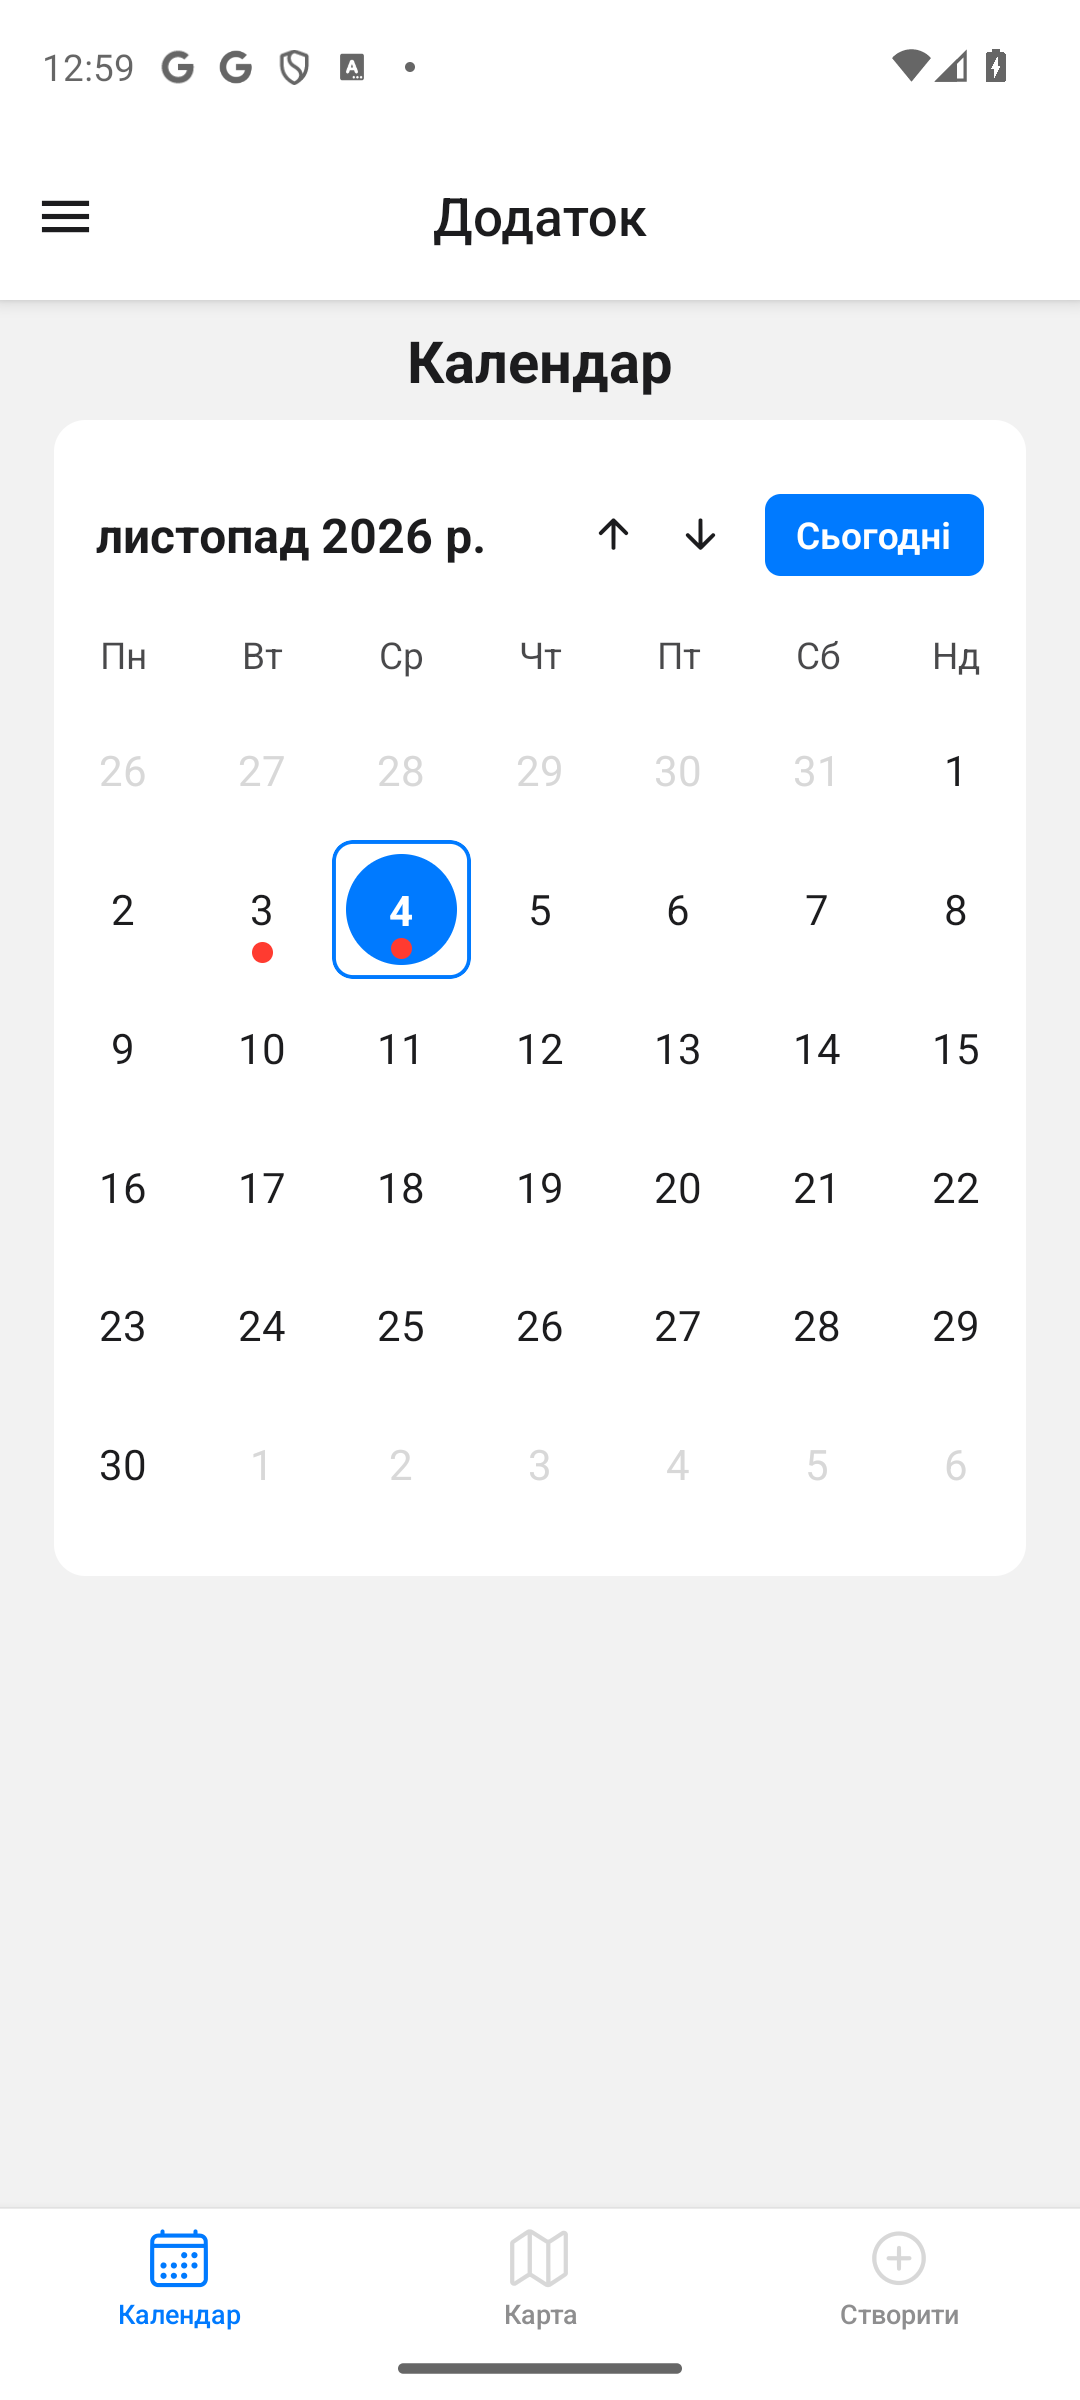
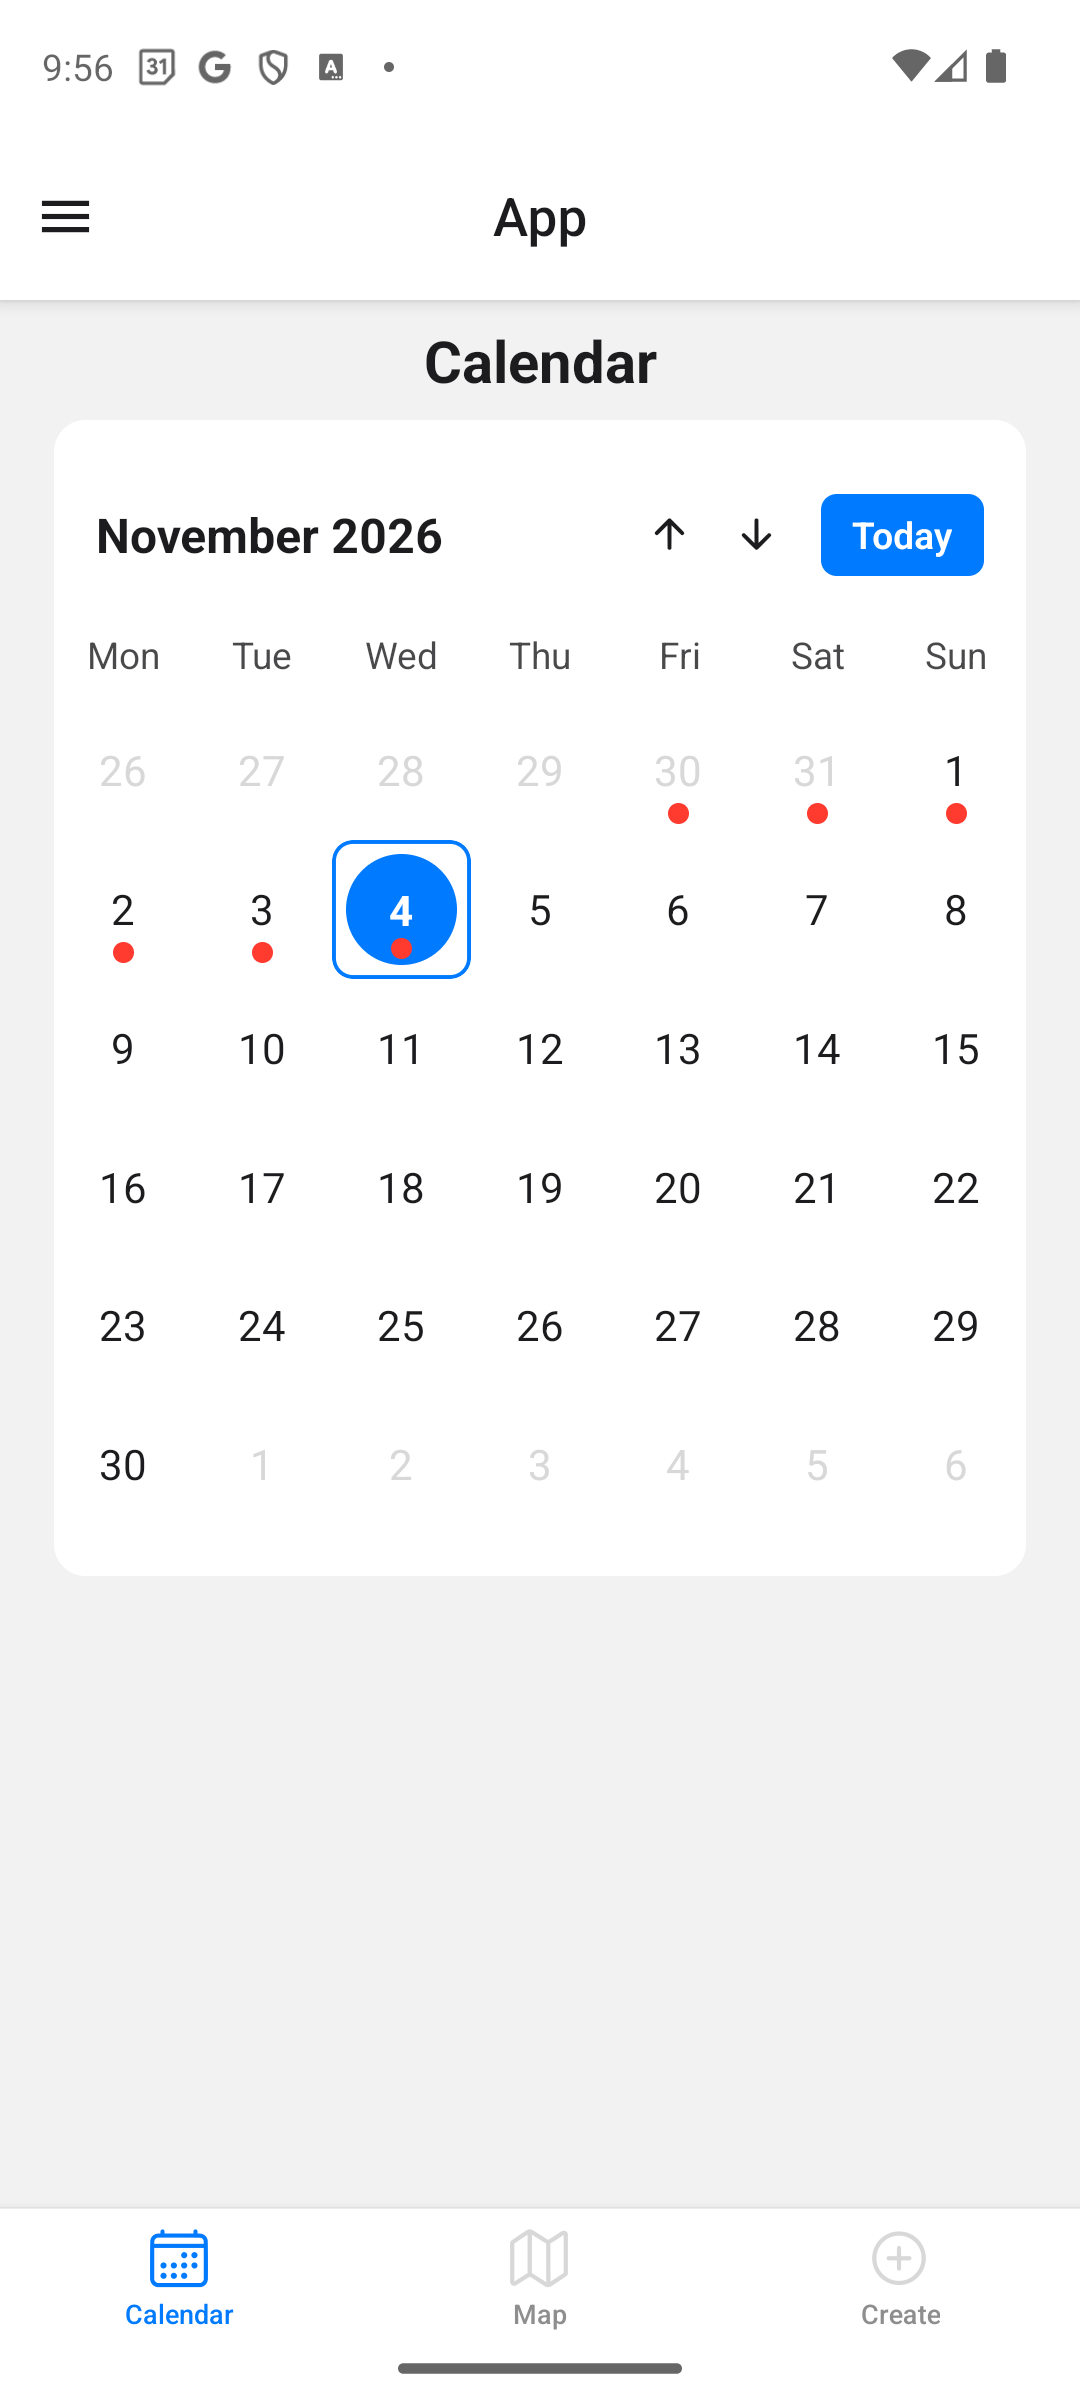
docs: expand English app demo screenshots

diff --git a/frontend/src/screens/MapScreen.js b/frontend/src/screens/MapScreen.js
@@ -1,63 +1,97 @@
 import React, { useRef, useState, useCallback } from 'react';
-import { View, Text, StyleSheet } from 'react-native';
+import { View, Text, StyleSheet, useWindowDimensions } from 'react-native';
 import MapView, { Marker } from 'react-native-maps';
 import { useTheme, useFocusEffect } from '@react-navigation/native';
 import { useTranslation } from 'react-i18next';
 import * as Location from 'expo-location';
 import { listOffensesRemoteAll } from '../repositories/offensesRepo';
+import { DEMO_MODE } from '../config/demo';
 
 /**
  * MapScreen
  *
- * Екран карти, де відображаються всі порушення у вигляді маркерів.
- * Також центрує карту на поточній геолокації користувача.
+ * Shows report markers on a map and centers on the user's location.
  *
  * State:
  * - items: список порушень (з координатами)
  * - region: поточна область карти
  *
  * Поведінка:
- * - при фокусі екрана: завантажує всі порушення та отримує геопозицію користувача
- * - карта переміщується до поточної позиції
+ * - On focus, loads reports and the user's location.
+ * - In demo mode, frames all synthetic report locations.
  */
 export default function MapScreen() {
     const { colors } = useTheme();
     const { t } = useTranslation();
+    const { width, height } = useWindowDimensions();
     const s = makeStyles(colors);
 
     const mapRef = useRef(null);
 
-    // список порушень
+    // Reports displayed on the map.
     const [items, setItems] = useState([]);
     const [region, setRegion] = useState({
-
+        latitude: 48.7164,
+        longitude: 21.2611,
+        latitudeDelta: 0.08,
+        longitudeDelta: 0.08,
     });
 
     useFocusEffect(
         useCallback(() => {
             (async () => {
-                // завантажуємо всі порушення
+                // Load every public report.
                 const rows = await listOffensesRemoteAll();
                 setItems(rows || []);
 
-                // перевірка доступу до геолокації
+                // Frame all synthetic reports in the portfolio demo without requesting device location.
+                if (DEMO_MODE) {
+                    const points = (rows || []).filter((item) => item.latitude != null && item.longitude != null);
+                    if (points.length) {
+                        const latitudes = points.map((item) => Number(item.latitude));
+                        const longitudes = points.map((item) => Number(item.longitude));
+                        const minLatitude = Math.min(...latitudes);
+                        const maxLatitude = Math.max(...latitudes);
+                        const minLongitude = Math.min(...longitudes);
+                        const maxLongitude = Math.max(...longitudes);
+                        const latitude = (minLatitude + maxLatitude) / 2;
+                        const longitude = (minLongitude + maxLongitude) / 2;
+                        const mapAspect = width / Math.max(height - 160, width);
+                        const longitudeScale = Math.cos((latitude * Math.PI) / 180);
+                        const latitudeDelta = Math.max(
+                            (maxLatitude - minLatitude) * 1.35,
+                            ((maxLongitude - minLongitude) * longitudeScale * 1.35) / mapAspect,
+                            0.025
+                        );
+                        const longitudeDelta = Math.max(
+                            (maxLongitude - minLongitude) * 1.35,
+                            (latitudeDelta * mapAspect) / longitudeScale
+                        );
+                        const next = { latitude, longitude, latitudeDelta, longitudeDelta };
+                        setRegion(next);
+                        mapRef.current?.animateToRegion(next, 700);
+                    }
+                    return;
+                }
+
+                // Request foreground location access.
                 const { status } = await Location.requestForegroundPermissionsAsync();
                 if (status !== 'granted') return;
 
-                // визначаємо поточну позицію
+                // Read the current device position.
                 const pos = await Location.getCurrentPositionAsync({
                     accuracy: Location.Accuracy.High,
                 });
                 const p = { latitude: pos.coords.latitude, longitude: pos.coords.longitude };
 
-                // встановлюємо новий регіон карти
+                // Center the map on the current position.
                 const next = { ...p, latitudeDelta: 0.03, longitudeDelta: 0.03 };
                 setRegion(next);
 
-                //переміщення карти
+                // Animate to the new region.
                 mapRef.current?.animateToRegion(next, 700);
             })();
-        }, [])
+        }, [height, width])
     );
 
     return (
@@ -71,7 +105,7 @@ export default function MapScreen() {
                 onRegionChangeComplete={setRegion}
                 showsUserLocation
             >
-                {/* рендеримо маркери лише для тих записів, де є координати */}
+                {/* Only reports with coordinates can be shown as markers. */}
                 {items
                     .filter((x) => x.latitude != null && x.longitude != null)
                     .map((p) => (

diff --git a/backend/src/scripts/seedDemo.ts b/backend/src/scripts/seedDemo.ts
@@ -12,10 +12,18 @@ if (!localHosts.has(parsedUri.hostname)) {
 
 const demoUserId = new Types.ObjectId('66f000000000000000000001');
 const sampleReports = [
-    { id: '66f100000000000000000001', category: 'traffic', description: 'DEMO ONLY — sample traffic report near the city centre.', latitude: 48.7164, longitude: 21.2611, minutesAgo: 18 },
-    { id: '66f100000000000000000002', category: 'parking', description: 'DEMO ONLY — sample parking report for preview purposes.', latitude: 48.7190, longitude: 21.2530, minutesAgo: 52 },
-    { id: '66f100000000000000000003', category: 'noise', description: 'DEMO ONLY — synthetic noise report; not a real incident.', latitude: 48.7139, longitude: 21.2701, minutesAgo: 107 },
+    { id: '66f100000000000000000001', category: 'traffic', description: 'DEMO ONLY — synthetic traffic report near the city centre.', latitude: 48.7164, longitude: 21.2611, minutesAgo: 18 },
+    { id: '66f100000000000000000002', category: 'parking', description: 'DEMO ONLY — synthetic parking report in the central district.', latitude: 48.7190, longitude: 21.2530, minutesAgo: 52 },
+    { id: '66f100000000000000000003', category: 'noise', description: 'DEMO ONLY — fictional noise report; not a real incident.', latitude: 48.7139, longitude: 21.2701, minutesAgo: 107 },
     { id: '66f100000000000000000004', category: 'vandalism', description: 'DEMO ONLY — sample report with fictional details.', latitude: 48.7222, longitude: 21.2639, minutesAgo: 196 },
+    { id: '66f100000000000000000005', category: 'traffic', description: 'DEMO ONLY — synthetic road report on the western side of the map.', latitude: 48.7264, longitude: 21.2435, minutesAgo: 1_520 },
+    { id: '66f100000000000000000006', category: 'parking', description: 'DEMO ONLY — fictional parking report in a northern area.', latitude: 48.7330, longitude: 21.2580, minutesAgo: 2_140 },
+    { id: '66f100000000000000000007', category: 'noise', description: 'DEMO ONLY — synthetic noise report in an eastern area.', latitude: 48.7215, longitude: 21.2830, minutesAgo: 2_880 },
+    { id: '66f100000000000000000008', category: 'theft', description: 'DEMO ONLY — fictional theft report in a southern area.', latitude: 48.7048, longitude: 21.2770, minutesAgo: 3_620 },
+    { id: '66f100000000000000000009', category: 'vandalism', description: 'DEMO ONLY — synthetic vandalism report in a western area.', latitude: 48.7005, longitude: 21.2515, minutesAgo: 4_360 },
+    { id: '66f100000000000000000010', category: 'traffic', description: 'DEMO ONLY — fictional traffic report in a south-western area.', latitude: 48.7121, longitude: 21.2305, minutesAgo: 5_100 },
+    { id: '66f100000000000000000011', category: 'parking', description: 'DEMO ONLY — synthetic parking report in a north-western area.', latitude: 48.7350, longitude: 21.2310, minutesAgo: 5_840 },
+    { id: '66f100000000000000000012', category: 'other', description: 'DEMO ONLY — fictional community report in an eastern area.', latitude: 48.7062, longitude: 21.2935, minutesAgo: 6_580 },
 ];
 
 async function seedDemoReports() {

diff --git a/frontend/src/i18n/LanguageProvider.js b/frontend/src/i18n/LanguageProvider.js
@@ -5,13 +5,11 @@ import i18n from './i18n';
 /**
  * LangCtx
  *
- * Контекст для збереження поточної мови застосунку.
- * Значення за замовчуванням:
- * - lang: 'uk'
- * - setLang: функція-заглушка
+ * Stores the current application language.
+ * English is the default; `setLang` switches between English and Ukrainian.
  */
 export const LangCtx = createContext({
-    lang: 'uk',
+    lang: 'en',
     setLang: () => {},
 });
 
@@ -27,9 +25,9 @@ const STORAGE_KEY = 'app.lang';
  * @param {React.ReactNode} children – внутрішні компоненти, які отримають доступ до LangCtx
  */
 export default function LanguageProvider({ children }) {
-    const [lang, setLangState] = useState('uk'); // стан вибраної мови (за замовчуванням – укр)
+    const [lang, setLangState] = useState('en');
 
-    // При першому запуску відновлюємо вибрану мову з AsyncStorage
+    // Restore the user's saved language on startup.
     useEffect(() => {
         (async () => {
             const saved = await AsyncStorage.getItem(STORAGE_KEY);
@@ -40,7 +38,7 @@ export default function LanguageProvider({ children }) {
         })();
     }, []);
 
-    // Метод зміни мови (оновлює state, i18n та зберігає у AsyncStorage)
+    // Change the language and persist the selection.
     const setLang = async (code) => {
         setLangState(code);
         await i18n.changeLanguage(code);

diff --git a/frontend/src/i18n/i18n.js b/frontend/src/i18n/i18n.js
@@ -133,7 +133,7 @@ const resources = {
 
 i18n.use(initReactI18next).init({
     resources,
-    lng: 'uk',
+    lng: 'en',
     fallbackLng: 'en',
     interpolation: { escapeValue: false },
 });

diff --git a/README.md b/README.md
@@ -2,15 +2,19 @@
 
 An Expo and React Native app for submitting community reports with a category, photo, and location. Reports can be browsed on a map or by date. The Koa and TypeScript API stores accounts and reports in MongoDB, while SQLite keeps a local queue for reports created offline.
 
-> **Portfolio demo:** `backend/src/scripts/seedDemo.ts` creates clearly labeled synthetic reports in a local MongoDB database. They are fictional examples, not real incidents.
+> **Portfolio demo:** `backend/src/scripts/seedDemo.ts` creates 12 clearly labeled synthetic reports at different map locations in a local MongoDB database. They are fictional examples, not real incidents.
 
 ## Screenshots
 
-Captured from the Android Pixel 8 emulator using Expo Go. The demo database contains four synthetic reports; every example is labeled `DEMO ONLY` and is not a real incident.
+Captured from the Android Pixel 8 emulator using Expo Go. The local demo database contains 12 synthetic reports at different map locations; every example is labeled `DEMO ONLY` and is not a real incident. The creation screen uses a generated example photo and description; no report was submitted for the screenshot.
 
 | Calendar | Synthetic reports for one day |
 | --- | --- |
 | ![Calendar showing dates with synthetic reports](docs/screenshots/demo-calendar.png) | ![Synthetic reports shown in the app](docs/screenshots/demo-reports.png) |
+
+| Map with reports across the city | Create report form preview |
+| --- | --- |
+| ![Map showing synthetic reports at multiple locations](docs/screenshots/demo-map.png) | ![Report creation form with synthetic example details](docs/screenshots/demo-create.png) |
 
 ## Features
 
@@ -18,7 +22,7 @@ Captured from the Android Pixel 8 emulator using Expo Go. The demo database cont
 - Public map and calendar views of reports returned by the API.
 - Report form with category, camera photo, and device location.
 - Local SQLite queue when the API or network is unavailable; queued reports sync when the app starts online.
-- Ukrainian and English text, light and dark themes, and a guest browsing flow.
+- English by default, with Ukrainian as an available language; light and dark themes and guest browsing.
 - User profile reads and protected account routes.
 
 ## Architecture
@@ -107,7 +111,7 @@ npm test
 npm audit
 ```
 
-`npm test` builds the TypeScript API and runs regression checks for bounded report pagination, cursor validation, and rejection of report-owner fields in PATCH requests. The local API returned all four synthetic records, and the Android app rendered the calendar markers and the dated report list in Expo Go.
+`npm test` builds the TypeScript API and runs regression checks for bounded report pagination, cursor validation, and rejection of report-owner fields in PATCH requests. The local API returned all 12 synthetic records, and the Android app rendered the calendar markers, dated report list, map pins, and report form preview in Expo Go.
 
 ## API overview
 
